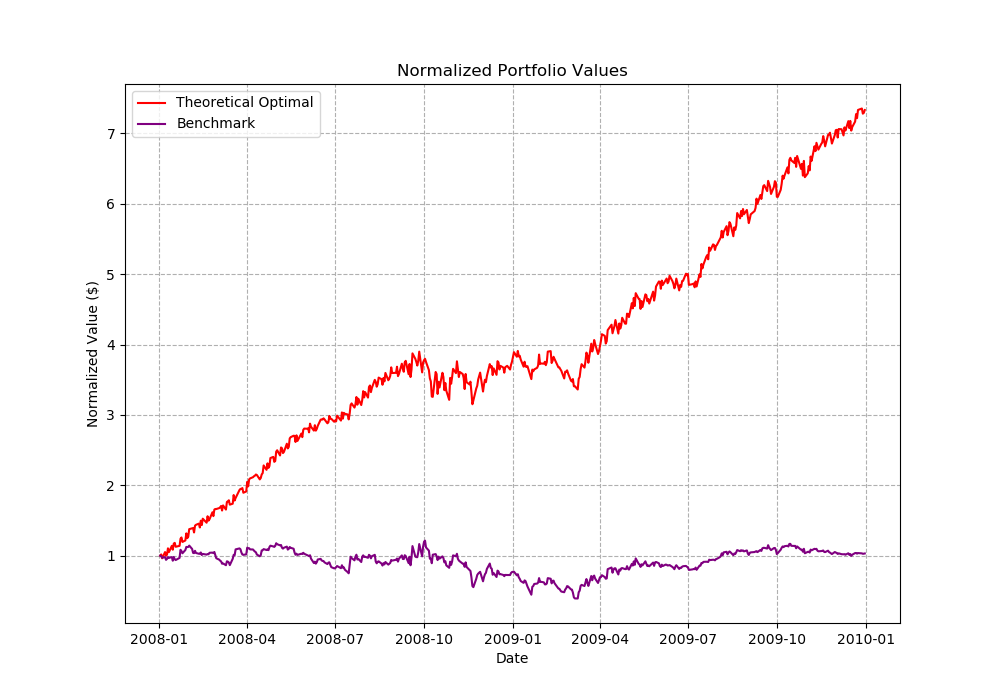
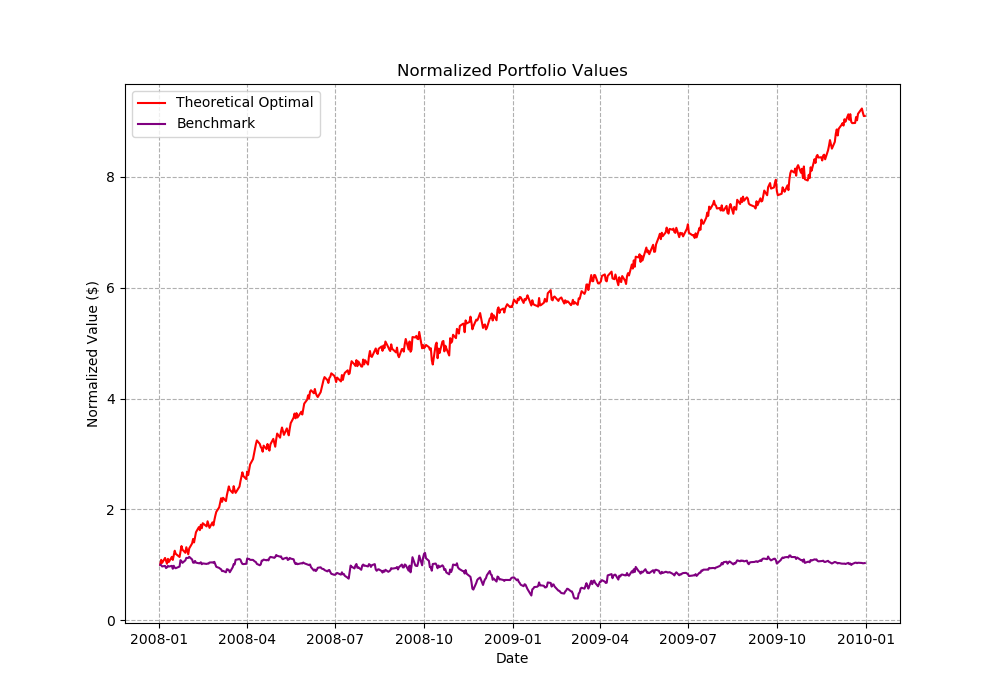
Project 6: Part 1 fixed theoretical optimal

diff --git a/indicator_evaluation/TheoreticallyOptimalStrategy.py b/indicator_evaluation/TheoreticallyOptimalStrategy.py
@@ -12,19 +12,18 @@ def testPolicy(symbol='AAPL', sd=dt.datetime(2010, 1, 1), ed=dt.datetime(2011, 1
     if (symbol != 'SPY'):
         prices = prices.drop(['SPY'], axis=1)
 
-    prices['shift'] = prices.shift(periods=-1, axis="rows") - prices
+    prices['shift'] = prices.shift(periods=-1) - prices
     prices['shift'] /= abs(prices['shift'])
 
     prices.fillna(method='bfill', inplace=True)
-
     trades = pd.DataFrame(data=0, index=prices.index, columns={symbol})
-    old_position = prices.iloc[0, -1]
-    trades[symbol] = old_position * 1000
+    trades[symbol] = prices.iloc[0, -1] * 1000
 
     for row, col in prices[1:].iterrows():
-        if col['shift'] != old_position:
-            trades.loc[row] = old_position * -2000
-            old_position = col['shift']
+        if col['shift'] == 1 and trades[row-1] != 2000:
+            trades.loc[row] = 2000
+        elif col['shift'] == -1 and trades[row-1] != -2000:
+            trades.loc[row] = -2000
         else:
             trades.loc[row] = 0
 

diff --git a/indicator_evaluation/testproject.py b/indicator_evaluation/testproject.py
@@ -152,4 +152,4 @@ def part_2():
 
 if __name__ == "__main__":
     part_1()
-    part_2()
+    # part_2()
